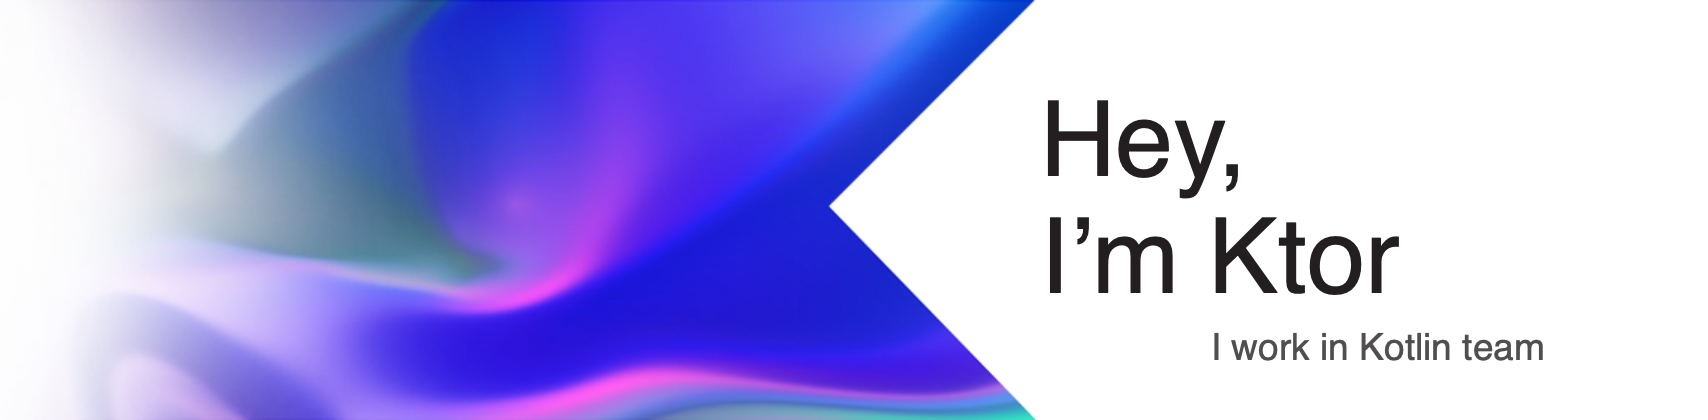
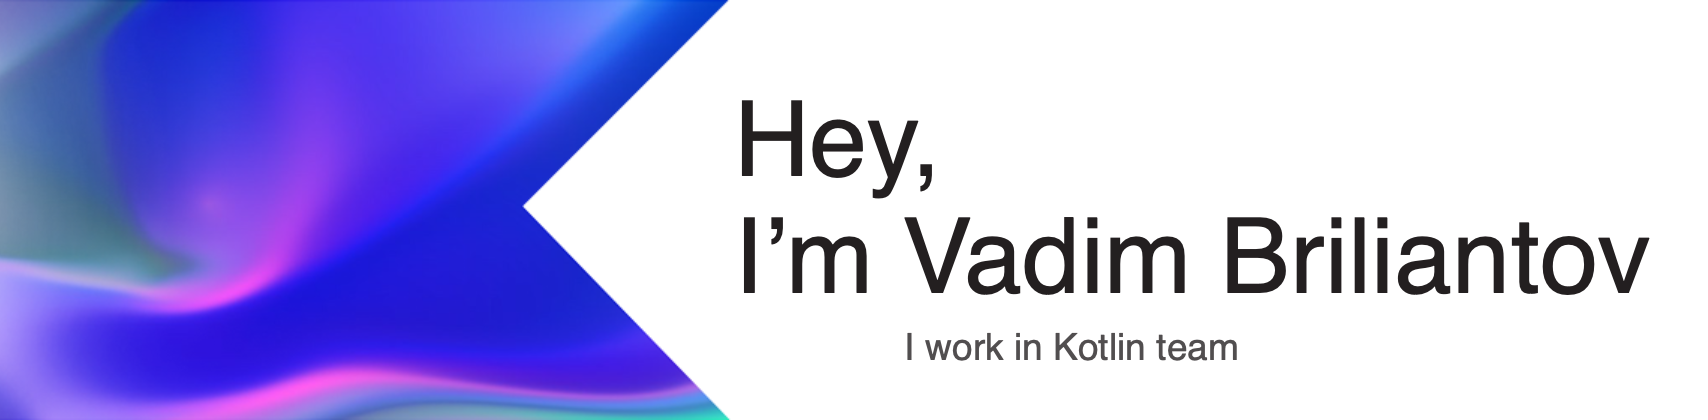
Update

diff --git a/README.md b/README.md
@@ -1,4 +1,4 @@
-![Ktor Banner](https://raw.github.com/Ololoshechkin/Ololoshechkin/master/github.png)
+![Vadim Briliantov Banner](https://raw.github.com/Ololoshechkin/Ololoshechkin/master/github.png)
 
 ## <img width="45" alt="about" src="https://raw.github.com/Ololoshechkin/Ololoshechkin/master/about.png"> More about me
 ```kotlin
@@ -10,9 +10,9 @@ val Ololoshechkin = developer {
     }
     tech("Kotlin", "Ktor", "Algorithms", "C++")
     links {
-        instagram = "vadimbrilyantov"
-        vk = "vbrilyantov"
-        telegram = "Ololoshechkin"
+        instagram = "@vadimbrilyantov"
+        vk = "@vbrilyantov"
+        telegram = "@Ololoshechkin"
     }
 }
 ```
